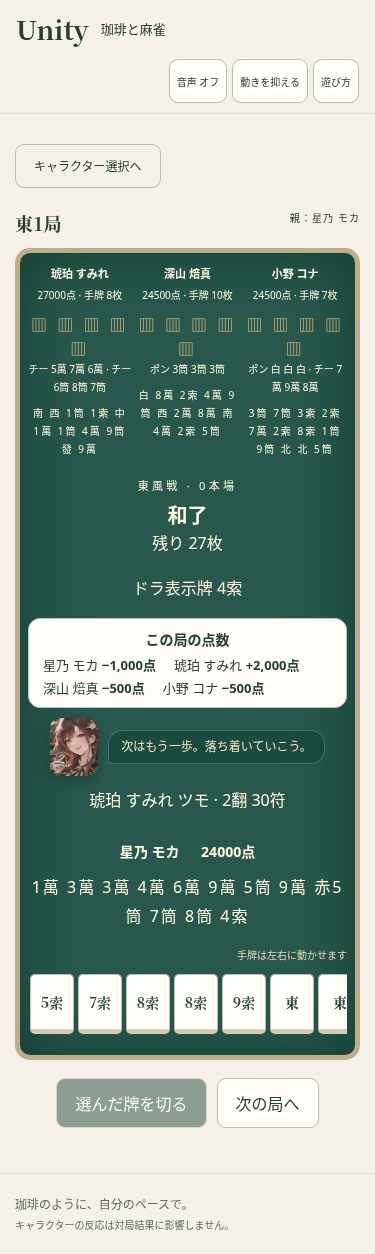
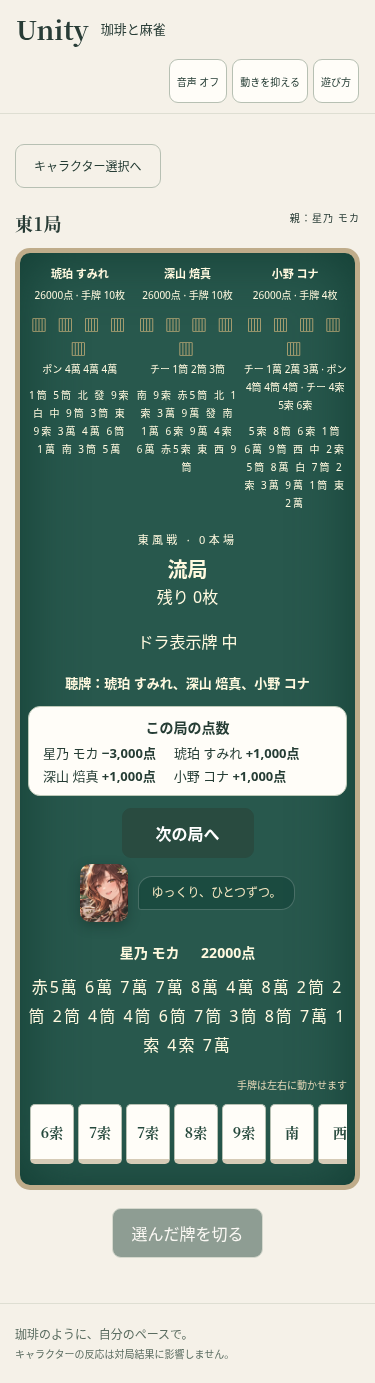
Keep Mahjong round continuation in result panel

diff --git a/public/mahjong/style.css b/public/mahjong/style.css
@@ -1,2 +1,3 @@
 :root{font-family:'Hiragino Kaku Gothic ProN','Yu Gothic',system-ui,sans-serif;color:#283c36;background:#f5f1e8;font-synthesis:none}*{box-sizing:border-box}body{margin:0}button,input{font:inherit}button,a,input{-webkit-tap-highlight-color:transparent}button{min-height:44px;padding:12px 18px;border:1px solid #b7c0b3;border-radius:9px;background:#fffdf8;color:#263d35;cursor:pointer}button:hover:not(:disabled){border-color:#5c806d;background:#edf3e9}button:focus-visible,a:focus-visible,input:focus-visible{outline:3px solid #c56e35;outline-offset:4px}button:disabled{opacity:.5;cursor:default}a{color:inherit}header{display:flex;align-items:center;gap:22px;border-bottom:1px solid #deded2;padding:15px 4vw}header>a{font-family:Georgia,serif;font-size:26px;text-decoration:none;font-weight:bold}header>span{font-size:13px}.settings{margin-left:auto;display:flex;gap:8px}.settings button{font-size:12px;padding:8px 12px}main{max-width:1200px;margin:auto;padding:30px 4vw 45px;min-height:70vh}h1,h2,p{margin-top:0}h1{font-family:Georgia,'Yu Mincho',serif;font-size:clamp(30px,4vw,52px);letter-spacing:.06em}h2{font-size:20px}p{line-height:1.8}.eyebrow{font-size:11px;letter-spacing:.17em;color:#6c7a66}.intro{text-align:center;padding:14px 0 24px}.intro h1{margin:12px}.intro>p:last-child{color:#667264;font-size:14px}main>h2{text-align:center;font-size:16px;margin-bottom:23px}.characters{display:grid;grid-template-columns:repeat(4,minmax(0,1fr));gap:18px}.character-card{display:flex;flex-direction:column;align-items:flex-start;gap:9px;padding:0 0 22px;overflow:hidden;text-align:left;background:#fffcf5;box-shadow:0 5px 20px #263e2910}.character-card>span:not(.portrait),.character-card>strong{margin:0 18px}.character-card>strong{font-size:22px;letter-spacing:.05em}.character-card>span:last-child{font-size:12px}.reading{font-size:10px;letter-spacing:.1em;color:#647064}.portrait{position:relative;width:100%;aspect-ratio:4/5;overflow:hidden;display:block;background:var(--ink);isolation:isolate;border-radius:13px 13px 0 0;box-shadow:inset 0 0 0 1px #ffffff55}.portrait>img{display:block;width:100%;height:100%;object-fit:cover;object-position:center 26%;filter:saturate(.95)}.portrait:after{content:'';position:absolute;inset:0;background:linear-gradient(180deg,#ffffff0c,transparent 42%,#111b1b18);pointer-events:none}.portrait::before{content:'';position:absolute;inset:10%;border:1px solid var(--accent);border-radius:50% 50% 0 0;opacity:.55}.portrait-halo,.portrait-head,.portrait-body{display:none}.portrait-compact{flex:0 0 48px;width:48px;height:58px;aspect-ratio:auto;border-radius:10px;overflow:hidden;box-shadow:0 4px 12px #10262165}.portrait-compact>img{position:absolute;left:-40%;top:-15%;width:180%;height:180%;max-width:none;object-fit:cover;object-position:center top;transition:filter .22s ease,transform .22s ease}.portrait-compact.expression-win{outline:2px solid #e5c27b;outline-offset:1px;animation:mahjong-cheer .55s cubic-bezier(.2,.8,.2,1) both}.portrait-compact.expression-focus>img{filter:contrast(1.05) saturate(1.08)}.portrait-compact.expression-down>img{filter:saturate(.68) brightness(.94)}@keyframes mahjong-cheer{0%{transform:scale(.9) rotate(-3deg)}60%{transform:scale(1.07) rotate(2deg)}100%{transform:scale(1) rotate(0)}}.table-character{display:flex;align-items:center;justify-content:center;gap:10px;min-height:58px;margin:6px auto 10px}.table-character .reaction{max-width:70%;margin:0;padding:7px 12px;border:1px solid #ffffff35;border-radius:14px 14px 14px 3px;background:#0e3d3380;color:#f5e6c1;text-align:left;line-height:1.5}.portrait-sumire{box-shadow:inset 0 0 0 2px #d6c6ec55,0 6px 20px #22294022}.portrait-houma{box-shadow:inset 0 0 0 2px #c2a76055,0 6px 20px #1e342922}.portrait-kona{box-shadow:inset 0 0 0 2px #a8c4d955,0 6px 20px #17293c22}.mode-layout{display:grid;grid-template-columns:1fr 1.2fr;max-width:850px;gap:60px;align-items:center;margin:20px auto}.selected-character .portrait{max-width:280px;margin:0 auto 20px;border-radius:70% 70% 12px 12px}.selected-character{text-align:center}.selected-character h1{font-size:30px;margin-bottom:10px}.selected-character p{font-size:13px}.mode-card{display:flex;flex-direction:column;gap:10px;text-align:left;width:100%;margin:15px 0;padding:24px}.mode-card strong{font-size:22px}.mode-card span,.note{font-size:12px;color:#596d5b}.back{margin-bottom:22px;background:transparent;font-size:12px}.tutorial,.error{background:#fff7dd;padding:18px;border-radius:9px;margin-bottom:20px}.tutorial p{margin-bottom:0;font-size:14px}.error{border:1px solid #ab533c;color:#7c3928}.table-heading{font-size:22px;display:flex;justify-content:space-between}.table-heading small{font:13px system-ui}.table{background:#28584d;border:9px solid #bfac8a;border-radius:30px;color:#fff9df;padding:18px 22px;box-shadow:inset 0 0 60px #123d33}.opponents{display:flex;justify-content:space-around;gap:15px}.opponent{text-align:center;flex:1;min-width:0}.opponent h2{font-size:14px;margin-bottom:5px}.opponent p{font-size:12px;margin-bottom:8px}.hidden-tiles{color:#edc483;letter-spacing:3px}.table-center{text-align:center;padding:12px 0}.table-center>p:first-child{font-size:11px;letter-spacing:.3em;margin-bottom:4px}.table-center>strong{font-size:20px}.reaction{margin:8px 0;font-size:12px;color:#e7dcbf}.own-seat{text-align:center}.own-seat h2{font-size:14px}.own-seat h2 span{margin-left:18px}.hand{display:flex;justify-content:flex-start;gap:4px;flex-wrap:nowrap;overflow-x:auto;overscroll-behavior-x:contain;scroll-snap-type:x proximity;scrollbar-width:thin;scrollbar-color:#d6cbb7 #17483d;padding:10px 2px 9px;-webkit-overflow-scrolling:touch}.hand-scroll-hint{display:none}.tile{flex:0 0 44px;scroll-snap-align:center;border-radius:5px;border-bottom:5px solid #d6cbb7;min-width:44px;padding:10px 5px;color:#25483c;font-family:'Yu Mincho',serif;font-weight:bold;font-size:18px;min-height:60px}.tile.selected{transform:translateY(-9px);outline:3px solid #e6ba70;background:#fff4bf}.discards{min-height:18px;letter-spacing:2px}.actions{display:flex;flex-wrap:wrap;justify-content:center;gap:10px;margin-top:18px}.actions button:first-child{background:#294b40;color:white}.result{max-width:580px;margin:50px auto;text-align:center}.result ol{list-style-position:inside;padding:0}.result li{padding:18px;border-bottom:1px solid #cccdbd}.result li strong{margin-left:30px}#online-lobby{display:grid;gap:16px;max-width:500px;padding:25px;background:#fffdf6;border-radius:16px}label{display:grid;gap:8px;font-size:14px}input{min-height:44px;border:1px solid #a9b8a8;border-radius:7px;padding:10px}footer{border-top:1px solid #deded2;padding:20px 4vw;font-size:12px;color:#5a6c60;display:flex;gap:20px;justify-content:space-between}footer span{font-size:10px}.skip-link{position:absolute;left:10px;top:-100px;padding:15px;background:#fff;z-index:10}.skip-link:focus{top:10px}.reduce-motion *{animation:none!important;transition:none!important;scroll-behavior:auto!important}@media(prefers-reduced-motion:reduce){*{animation:none!important;transition:none!important;scroll-behavior:auto!important}}@media(min-width:700px) and (max-height:550px){header{padding:7px 3vw}main{padding-top:15px}.intro{padding:0}.intro h1{font-size:30px}.intro>p:last-child{margin-bottom:12px}.character-card .portrait{aspect-ratio:1.65}.character-card{gap:5px;padding-bottom:12px}.mode-layout{gap:30px;margin:0 auto}.selected-character .portrait{max-width:160px}.table{padding:10px 15px}.table-center{padding:3px 0}.table-center>p,.reaction{margin:3px}.table-heading{margin-bottom:7px}.back{margin-bottom:8px}.tile{min-height:44px;padding:5px}.opponent p{margin:0}.actions{margin-top:8px}footer{padding:10px 4vw}}@media(max-width:699px){.hand-scroll-hint{display:block;margin:7px 0 0;color:#e4d7b7;font-size:10px;text-align:right}.portrait{aspect-ratio:4/5}.table-character .reaction{max-width:68%;font-size:12px}header{gap:12px;padding:10px 16px;flex-wrap:wrap}.settings{gap:5px}.settings button{font-size:10px;padding:7px}.characters{grid-template-columns:repeat(2,minmax(0,1fr));gap:12px}.character-card>strong{font-size:18px}.character-card>span:not(.portrait),.character-card>strong{margin:0 12px}.intro{padding-bottom:15px}.mode-layout{grid-template-columns:1fr;gap:15px}.selected-character .portrait{max-width:150px}.selected-character h1{font-size:26px}.mode-card{padding:16px}.table{padding:12px 8px;border-width:5px;border-radius:15px}.opponents{gap:4px}.opponent h2{font-size:11px}.opponent p{font-size:10px}.tile{min-width:44px;font-size:14px}.table-center{padding:10px 0}.table-heading{font-size:18px}.table-heading small{font-size:10px}footer{display:block;line-height:1.8}footer span{display:block}}
 .hand-settlement{margin:10px auto;padding:10px 14px;max-width:620px;border:1px solid #bdc9b8;border-radius:12px;background:#fffdf8;color:#263d35}.hand-settlement h2{margin:0 0 6px;font-size:14px}.hand-settlement ul{display:flex;flex-wrap:wrap;gap:4px 18px;margin:0;padding:0;list-style:none}.hand-settlement li{font-size:13px}.hand-settlement li strong{font-variant-numeric:tabular-nums}.hand-tenpai{margin:5px auto!important;font-size:13px;font-weight:700}
+.hand-next{display:block;margin:12px auto 4px;background:#294b40;color:#fff;border-color:#294b40;font-weight:700;min-width:132px}.hand-next:hover:not(:disabled){background:#1e3e34}

diff --git a/public/mahjong/src/app.js b/public/mahjong/src/app.js
@@ -54,7 +54,7 @@ export function renderApp(state) {
   else if (state.screen === 'table') {
     const players = view.players || [], actions = view.legalActions || [],selfSeat=view.selfSeat??0,own=players[selfSeat],opponents=[...players.slice(selfSeat+1),...players.slice(0,selfSeat)];
     const result=view.result||{},deltas=Array.isArray(result.deltas)?result.deltas:[],settlement=deltas.length?`<section class="hand-settlement" aria-label="この局の点数"><h2>この局の点数</h2><ul>${players.map((p,seat)=>{const delta=Number(deltas[seat]||0);return `<li>${escape(p.name)} <strong>${delta>0?'+':delta<0?'−':''}${Math.abs(delta).toLocaleString('ja-JP')}点</strong></li>`;}).join('')}</ul></section>`:'',tenpai=result.type==='exhaustive'&&Array.isArray(result.tenpai)?`<p class="hand-tenpai">聴牌：${result.tenpai.length?result.tenpai.map(seat=>escape(players[seat]?.name||`席${seat+1}`)).join('、'):'なし'}</p>`:'';
-    content = `<h1 id="screen-title" class="table-heading">${escape(view.round || `東${view.handNumber||1}局`)} <small>親：${escape(players[view.dealer]?.name || '確認中')}</small></h1><div class="table"><div class="opponents">${opponents.map(p => `<section class="opponent"><h2>${escape(p.name)}</h2><p>${escape(p.points)}点 · 手牌 ${escape(p.handCount ?? '–')}枚 ${p.riichi?'· リーチ':''}</p><div class="hidden-tiles" aria-hidden="true">▥ ▥ ▥ ▥ ▥</div><p class="melds" aria-label="${escape(p.name)}の副露">${(p.melds||[]).map(m=>`${escape(labels[m.type]||m.type)} ${m.tiles.map(tileLabel).join(' ')}`).join(' · ')}</p><p class="discards" aria-label="${escape(p.name)}の河">${(p.discards || []).map(d=>tileLabel(d.tile??d)).join(' ')}</p></section>`).join('')}</div><div class="table-center"><p>東風戦 · ${escape(view.honba||0)}本場</p><strong>${escape(view.status || (view.phase === 'HAND_RESULT' ? view.result?.type==='win'?'和了':'流局':'あなたの一手'))}</strong>${view.remainingTiles !== undefined ? `<p>残り ${escape(view.remainingTiles)}枚</p>` : ''}${view.doraIndicators?.length?`<p>ドラ表示牌 ${view.doraIndicators.map(tileLabel).join(' ')}</p>`:''}${tenpai}${settlement}${(()=>{const win=view.phase==='HAND_RESULT'&&view.result?.type==='win'&&view.result?.winner===selfSeat,loss=view.phase==='HAND_RESULT'&&view.result?.type==='win'&&view.result?.winner!==selfSeat,active=view.phase==='DISCARD'&&view.activeSeat===selfSeat,expression=win?'win':loss?'down':active?'focus':'neutral',line=win?(c?.reactions.win||c?.reactions.result):loss?(c?.reactions.loss||c?.reactions.result):view.phase==='REACTION'?(c?.reactions.wait||c?.reactions.turn):view.phase==='DISCARD'&&!active?(c?.reactions.cpu||c?.reactions.turn):c?.reactions.turn;return `<div class="table-character">${c?portrait(c,true,expression):''}<p class="reaction">${escape(line)}</p></div>`})()}${view.result?.winner!==undefined?`<p>${escape(players[view.result.winner]?.name)} ${view.result.winType==='tsumo'?'ツモ':'ロン'} · ${escape(view.result.han||0)}翻 ${escape(view.result.fu||0)}符</p>`:''}</div><section class="own-seat" aria-label="自分の手牌"><h2>${escape(own?.name || c?.name)} <span>${escape(own?.points)}点</span></h2><p class="discards" aria-label="自分の河">${(own?.discards || []).map(d=>tileLabel(d.tile??d)).join(' ')}</p><p class="melds">${(own?.melds||[]).map(m=>`${escape(labels[m.type]||m.type)} ${m.tiles.map(tileLabel).join(' ')}`).join(' · ')}</p><p class="hand-scroll-hint">手牌は左右に動かせます</p><div class="hand" aria-label="自分の手牌。左右にスクロールできます">${(own?.hand || []).map(tile => { const value = typeof tile === 'object' ? (tile.tile??tile.id) : tile; return `<button class="tile${String(state.selectedTile) === String(value) ? ' selected' : ''}" data-tile="${escape(value)}" aria-pressed="${String(state.selectedTile) === String(value)}" aria-label="${tileLabel(tile)}を選択">${tileLabel(tile)}</button>`; }).join('')}</div></section></div><div class="actions" aria-label="対局の操作"><button data-action="discard" ${!actions.some(a => a.type === 'discard' && String(a.tile) === String(state.selectedTile)) ? 'disabled' : ''}>選んだ牌を切る</button>${actions.map((a,i) => a.type === 'discard' ? '' : `<button data-legal="${i}">${escape(labels[a.type] || a.label || a.type)}${a.tile!==undefined?` ${tileLabel(a.tile)}`:''}${a.tiles?` ${a.tiles.map(tileLabel).join(' ')}`:''}</button>`).join('')}${view.phase==='HAND_RESULT'?'<button data-action="next-hand">次の局へ</button>':''}</div>`;
+    content = `<h1 id="screen-title" class="table-heading">${escape(view.round || `東${view.handNumber||1}局`)} <small>親：${escape(players[view.dealer]?.name || '確認中')}</small></h1><div class="table"><div class="opponents">${opponents.map(p => `<section class="opponent"><h2>${escape(p.name)}</h2><p>${escape(p.points)}点 · 手牌 ${escape(p.handCount ?? '–')}枚 ${p.riichi?'· リーチ':''}</p><div class="hidden-tiles" aria-hidden="true">▥ ▥ ▥ ▥ ▥</div><p class="melds" aria-label="${escape(p.name)}の副露">${(p.melds||[]).map(m=>`${escape(labels[m.type]||m.type)} ${m.tiles.map(tileLabel).join(' ')}`).join(' · ')}</p><p class="discards" aria-label="${escape(p.name)}の河">${(p.discards || []).map(d=>tileLabel(d.tile??d)).join(' ')}</p></section>`).join('')}</div><div class="table-center"><p>東風戦 · ${escape(view.honba||0)}本場</p><strong>${escape(view.status || (view.phase === 'HAND_RESULT' ? view.result?.type==='win'?'和了':'流局':'あなたの一手'))}</strong>${view.remainingTiles !== undefined ? `<p>残り ${escape(view.remainingTiles)}枚</p>` : ''}${view.doraIndicators?.length?`<p>ドラ表示牌 ${view.doraIndicators.map(tileLabel).join(' ')}</p>`:''}${tenpai}${settlement}${view.phase==='HAND_RESULT'?'<button class="hand-next" data-action="next-hand">次の局へ</button>':''}${(()=>{const win=view.phase==='HAND_RESULT'&&view.result?.type==='win'&&view.result?.winner===selfSeat,loss=view.phase==='HAND_RESULT'&&view.result?.type==='win'&&view.result?.winner!==selfSeat,active=view.phase==='DISCARD'&&view.activeSeat===selfSeat,expression=win?'win':loss?'down':active?'focus':'neutral',line=win?(c?.reactions.win||c?.reactions.result):loss?(c?.reactions.loss||c?.reactions.result):view.phase==='REACTION'?(c?.reactions.wait||c?.reactions.turn):view.phase==='DISCARD'&&!active?(c?.reactions.cpu||c?.reactions.turn):c?.reactions.turn;return `<div class="table-character">${c?portrait(c,true,expression):''}<p class="reaction">${escape(line)}</p></div>`})()}${view.result?.winner!==undefined?`<p>${escape(players[view.result.winner]?.name)} ${view.result.winType==='tsumo'?'ツモ':'ロン'} · ${escape(view.result.han||0)}翻 ${escape(view.result.fu||0)}符</p>`:''}</div><section class="own-seat" aria-label="自分の手牌"><h2>${escape(own?.name || c?.name)} <span>${escape(own?.points)}点</span></h2><p class="discards" aria-label="自分の河">${(own?.discards || []).map(d=>tileLabel(d.tile??d)).join(' ')}</p><p class="melds">${(own?.melds||[]).map(m=>`${escape(labels[m.type]||m.type)} ${m.tiles.map(tileLabel).join(' ')}`).join(' · ')}</p><p class="hand-scroll-hint">手牌は左右に動かせます</p><div class="hand" aria-label="自分の手牌。左右にスクロールできます">${(own?.hand || []).map(tile => { const value = typeof tile === 'object' ? (tile.tile??tile.id) : tile; return `<button class="tile${String(state.selectedTile) === String(value) ? ' selected' : ''}" data-tile="${escape(value)}" aria-pressed="${String(state.selectedTile) === String(value)}" aria-label="${tileLabel(tile)}を選択">${tileLabel(tile)}</button>`; }).join('')}</div></section></div><div class="actions" aria-label="対局の操作"><button data-action="discard" ${!actions.some(a => a.type === 'discard' && String(a.tile) === String(state.selectedTile)) ? 'disabled' : ''}>選んだ牌を切る</button>${actions.map((a,i) => a.type === 'discard' ? '' : `<button data-legal="${i}">${escape(labels[a.type] || a.label || a.type)}${a.tile!==undefined?` ${tileLabel(a.tile)}`:''}${a.tiles?` ${a.tiles.map(tileLabel).join(' ')}`:''}</button>`).join('')}</div>`;
   } else if (state.screen === 'result') content = `<div class="result"><p class="eyebrow">また、この卓で。</p><h1 id="screen-title">${escape(view.result?.title || '対局終了')}</h1><ol>${(view.result?.rankings || []).map(p => `<li>${escape(p.name)} <strong>${escape(p.points)}点</strong></li>`).join('')}</ol><p>${escape(c?.reactions.result)}</p><button data-action="${state.mode==='online'?'leave-room':'back'}">${state.mode==='online'?'対局を終えてルームを退出':'もう一度遊ぶ'}</button></div>`;
   const canLeaveOnline=state.mode==='online'&&((state.screen==='lobby'&&state.onlineState?.phase==='LOBBY')||(state.screen==='result'&&state.onlineState?.phase==='MATCH_RESULT'));
   const canBack=state.screen!=='character'&&state.screen!=='result'&&(state.mode!=='online'||state.screen==='lobby'&&!state.onlineState);

diff --git a/public/sw.js b/public/sw.js
@@ -1,4 +1,4 @@
-const CACHE='unity-mix-shell-v55';
+const CACHE='unity-mix-shell-v56';
 const SHELL=['/silver-ring/src/bowl-forces.js','/silver-ring/src/bowl-contacts.js','/silver-ring/src/frame-time.js','/silver-ring/src/render-frame.js','/silver-ring/src/project-cabinet.js','/silver-ring/src/render-profile.js','/silver-ring/audio/breakthrough-second-stage.mp3','/silver-ring/audio/jackpot-third-stage.mp3','/silver-ring/src/coin-engraving.js','/silver-ring/assets/infernal-backplate.webp','/silver-ring/src/recorded-sounds.js','/silver-ring/audio/breakthrough.mp3','/silver-ring/audio/jackpot.mp3','/silver-ring/audio/zawa.mp3','/silver-ring/src/breakthrough-sound.js','/silver-ring/src/camera-pose.js','/silver-ring/src/cabinet-art.js','/silver-ring/src/banknote-rain.js','/silver-ring/presentation.css','/silver-ring/src/presentation.js','/js/silver-ring/shell.js','/silver-ring/index.html','/silver-ring/style.css','/silver-ring/NOTICE.txt','/silver-ring/src/main.js','/silver-ring/src/ui.js','/silver-ring/src/physics.js','/silver-ring/src/scene.js','/silver-ring/src/seed.js','/silver-ring/src/audio.js','/silver-ring/src/fx.js','/silver-ring/src/config.js','/vendor/three/addons/shaders/CopyShader.js','/vendor/three/addons/shaders/OutputShader.js','/vendor/three/addons/shaders/LuminosityHighPassShader.js','/vendor/three/addons/postprocessing/OutputPass.js','/vendor/three/addons/postprocessing/EffectComposer.js','/vendor/three/addons/postprocessing/UnrealBloomPass.js','/vendor/three/addons/postprocessing/RenderPass.js','/vendor/three/addons/postprocessing/Pass.js','/vendor/three/addons/postprocessing/MaskPass.js','/vendor/three/addons/postprocessing/ShaderPass.js','/vendor/three/addons/controls/OrbitControls.js','/vendor/three/addons/utils/BufferGeometryUtils.js','/vendor/three/LICENSE','/js/abyss/rotor-mechanism.js','/js/abyss/challenge-policy.js','/js/abyss/challenge-controls.js','/js/abyss/si-v4/si-config.js','/js/abyss/si-v4/si-engine.js','/js/abyss/si-v4/si-geometry.js','/js/abyss/si-v4/si-renderer.js','/js/abyss/si-v4/board-routes.js','/js/abyss/si-v4/tray-layout.js','/js/abyss/si-v4/orbital-mesh.js','/js/abyss/si-v4/cabinet.js','/js/abyss/board-routes.js','/js/abyss/tray-layout.js','/js/abyss/orbital-mesh.js','/js/abyss/cabinet.js','/js/abyss/play-layout.js','/js/abyss/si-v3/si-config.js','/js/abyss/si-v3/si-engine.js','/js/abyss/si-v3/si-geometry.js','/js/abyss/si-v3/si-renderer.js','/js/abyss/si-v2/si-config.js','/js/abyss/si-v2/si-engine.js','/js/abyss/si-v2/si-geometry.js','/js/abyss/si-v2/si-renderer.js','/js/abyss/presentation.js','/js/abyss/si-v1/si-renderer.js','/js/abyss/si-v1/si-config.js','/js/abyss/si-v1/si-engine.js','/js/abyss/si-v1/si-geometry.js','/js/abyss/si-config.js','/js/abyss/si-engine.js','/js/abyss/si-geometry.js','/js/abyss/si-renderer.js','/js/abyss/legacy/config.js','/js/abyss/legacy/engine.js','/js/abyss/legacy/physics.js','/js/abyss/legacy/renderer.js','/vendor/rapier/rapier.mjs','/vendor/earcut/earcut.js','/abyss.css','/js/abyss/screen.js','/js/abyss/ui.js','/js/abyss/ui-panels.js','/js/abyss/config.js','/js/abyss/engine.js','/js/abyss/physics.js','/js/abyss/renderer.js','/js/abyss/audio.js','/js/abyss/analysis.js','/js/abyss/storage.js','/js/abyss/replay.js','/js/abyss/research-worker.js','/vendor/three/three.module.js','/vendor/three/three.core.js','/bonus.css','/js/bonus/config.js','/js/bonus/physics.js','/js/bonus/model.js','/js/bonus/render.js','/js/bonus/screen.js','/js/bonus/audio.js','/js/cpu.js','/js/scale.js','/js/events/screen.js?v=tier-board-v9','/js/events/tier.js?v=tier-board-v7','/js/events/tier.css?v=tier-board-v5','/js/events/individual.js','/js/events/guessing.js','/js/events/teams.js','/js/events/editor.js','/js/events/host.js','/js/events/status.js','/js/events/rating.js?v=rating-v6','/js/events/rating.css?v=rating-v6','/rating/verified/real-coffee.jpg','/rating/verified/ai-latte-generated.webp','/rating/verified/rating-art-de-hooch.jpg','/rating/verified/rating-art-vermeer.jpg','/mahjong/index.html','/mahjong/style.css','/mahjong/src/main.js','/mahjong/src/app.js','/mahjong/src/characters.js','/mahjong/src/cpu-game.js','/mahjong/src/online.js','/mahjong/assets/moka.webp','/mahjong/assets/sumire.webp','/mahjong/assets/houma.webp','/mahjong/assets/kona.webp','/','/style.css','/js/app.js?v=tier-board-v9','/js/dom.js','/js/realtime.js','/js/home.js','/js/lobby.js','/js/answer.js','/js/results.js','/js/game.js','/js/final.js','/js/share.js','/assets/unity-mark.webp','/assets/fonts/cormorant-garamond-latin.woff'];
 self.addEventListener('install',event=>event.waitUntil((async()=>{
  const cache=await caches.open(CACHE);

diff --git a/test/offline-shell.test.js b/test/offline-shell.test.js
@@ -9,7 +9,7 @@ test('the offline shell can install from live HTTP assets without requesting ret
  try{
   const base=`http://127.0.0.1:${app.server.address().port}`,handlers={},requested=[];let installed=false,pending;
   const source=await readFile(new URL('../public/sw.js',import.meta.url),'utf8');
-  const appSource=await readFile(new URL('../public/js/app.js',import.meta.url),'utf8');assert.match(source,/const CACHE='unity-mix-shell-v55'/);assert.match(appSource,/register\('\/sw\.js\?v=55'/,'the registration URL and cache revision stay aligned');
+  const appSource=await readFile(new URL('../public/js/app.js',import.meta.url),'utf8');assert.match(source,/const CACHE='unity-mix-shell-v56'/);assert.match(appSource,/register\('\/sw\.js\?v=56'/,'the registration URL and cache revision stay aligned');
   vm.runInNewContext(source,{self:{addEventListener:(name,fn)=>{handlers[name]=fn;},skipWaiting:async()=>{installed=true;}},Request:class{constructor(path,options){return new Request(new URL(path,base),options);}},caches:{open:async()=>({addAll:async(requests)=>{for(const request of requests){requested.push(request.url);const response=await fetch(request);assert.equal(response.status,200,request.url);}}})}});
   handlers.install({waitUntil:p=>{pending=p;}});await pending;
   assert.equal(installed,true);assert.ok(requested.length>100);assert.ok(requested.every(url=>!url.includes('/mechanical/')));

diff --git a/test/mahjong-ui.test.js b/test/mahjong-ui.test.js
@@ -135,5 +135,5 @@ test('table portrait and character line change for own turn, CPU turn, win and l
 });
 test('exhaustive hand result explains tenpai and point settlement and offers next hand',async()=>{
  const [,{renderApp}]=await load();const html=renderApp({screen:'table',mode:'cpu',characterId:'moka',view:{phase:'HAND_RESULT',selfSeat:0,players:[{name:'自分',points:28000,hand:[]},{name:'南さん',points:24000},{name:'西さん',points:24000},{name:'北さん',points:24000}],legalActions:[{type:'next'}],result:{type:'exhaustive',tenpai:[0],deltas:[3000,-1000,-1000,-1000]}}});
- assert.match(html,/聴牌：自分/);assert.match(html,/\+3,000点/);assert.match(html,/−1,000点/);assert.match(html,/次の局へ/);
+ assert.match(html,/聴牌：自分/);assert.match(html,/\+3,000点/);assert.match(html,/−1,000点/);const center=html.slice(html.indexOf('<div class="table-center">'),html.indexOf('<section class="own-seat"'));assert.match(center,/data-action="next-hand"/,'the next-hand action stays close to the result on phones');
 });

diff --git a/docs/qa/three-games-quality/WORKLOG.md b/docs/qa/three-games-quality/WORKLOG.md
@@ -43,3 +43,4 @@
 | 05:11–05:12 | 1 | Final full-suite and question-data validation after artwork revision | `npm test`: 607/607 pass; `npm run check:questions`: 259 core questions valid, 15 prompts for each standard event game, Rating pool reports 12 enabled / 2 evidence-verified. `git diff --check` clean. |
 | 05:12–05:13 | 1 | Repeated Mahjong simulation with varied seeded CPU choices | 100 additional seeded matches all completed with conserved points. Average 7.56 hands, maximum 12; 18/100 reached the published cap. Combined with the deterministic 250-match run, this verifies the cap bounds pathological play while most varied runs end sooner. |
 | 05:14–05:15 | 1 | Captured the final partial Tier result state | Rendered the revised reveal copy at 375px, confirmed it states only responding votes count and that unsubmitted ballots are excluded. No horizontal overflow or browser errors. Capture: `tier-partial-final-375.png`. |
+| 05:15–05:17 | 2 | Kept the Mahjong next-hand control beside the result on mobile | Phone-width review showed the external action row sat below the tall board. Moved “次の局へ” into the hand-result panel, added a targeted assertion that it remains with the score/tenpai summary, and verified a real 390px CPU hand result plus continuation. Refreshed the result screenshots at 375/390/414px. Bumped offline shell registration/cache to v56. |
